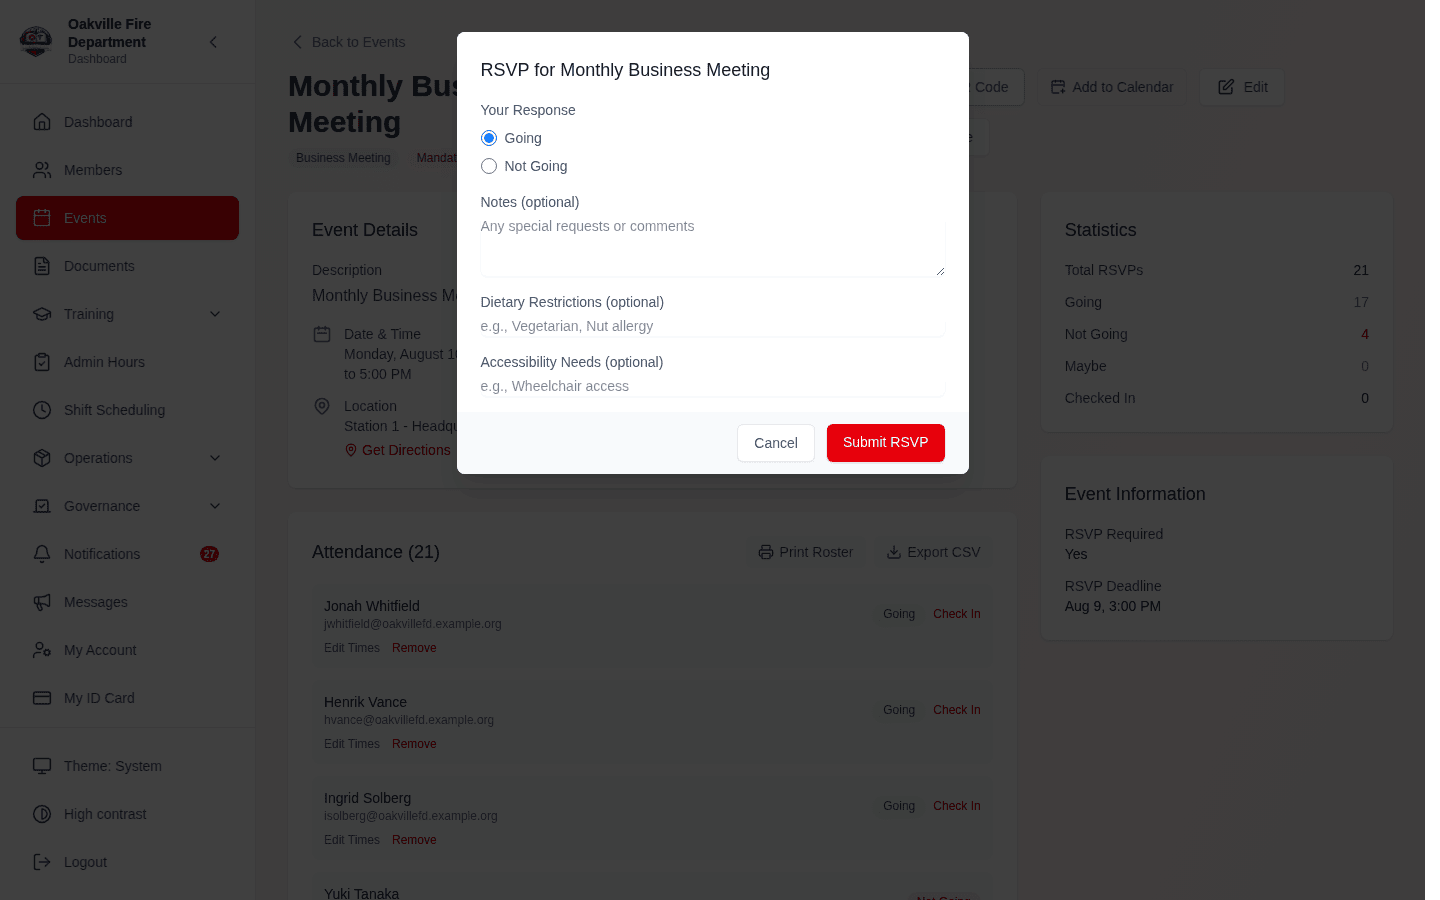
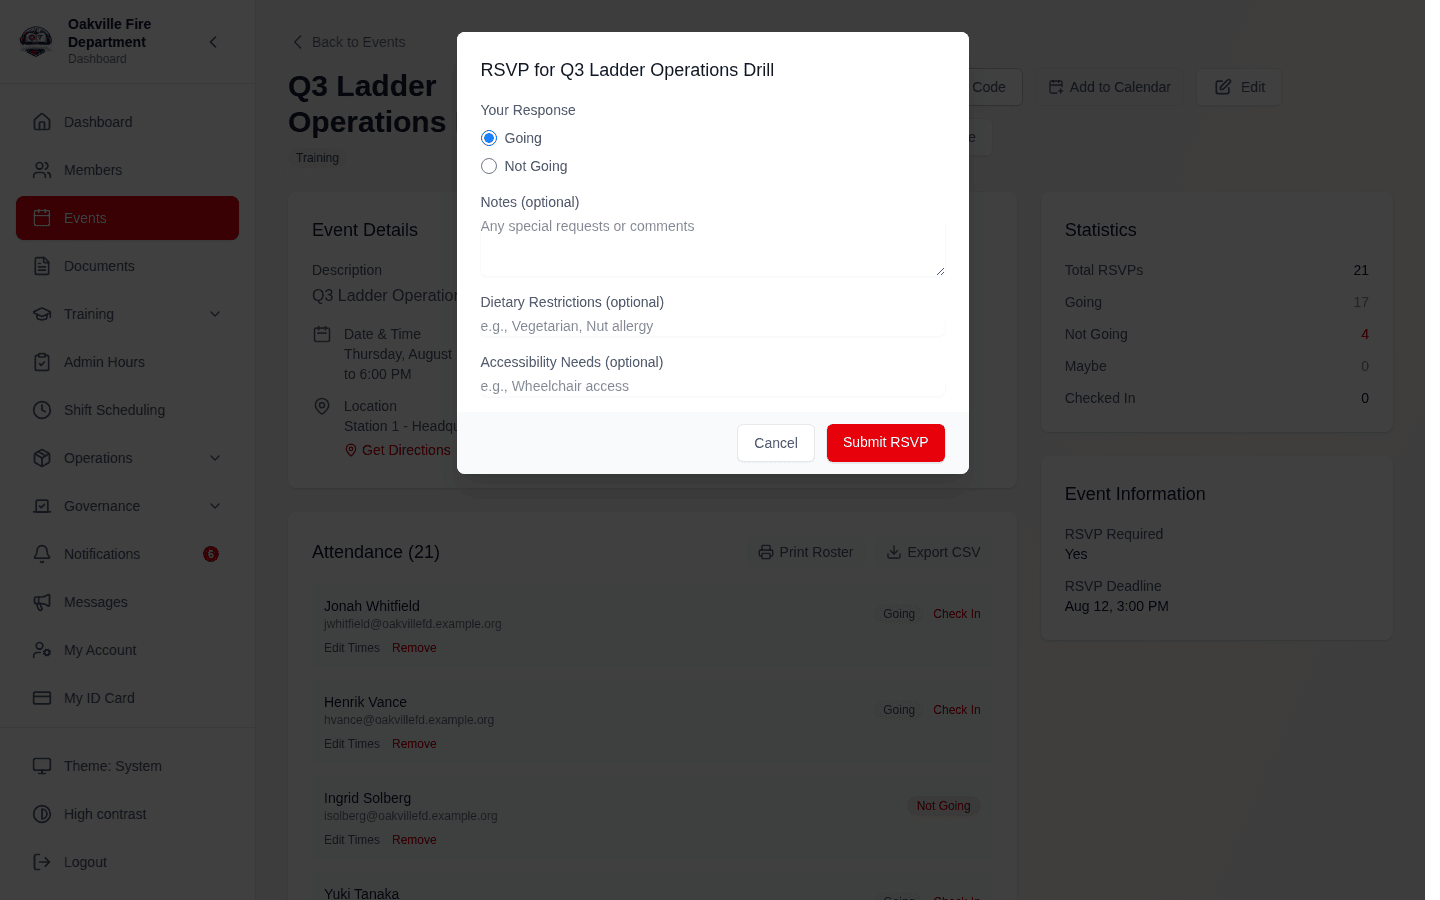
Fill the department's offices; fix the RSVP shot's event picker
The RSVP modal shot had been failing since the demo data moved on. It picked
the first *upcoming* event, but the RSVP button also needs a deadline still
in the future, and the seeder sets that a day before the event — so the
nearest upcoming event has usually closed. A new isRsvpOpen predicate
requires requires_rsvp, not cancelled, and a start at least two days out,
which clears the seeder's one-day lead. The list response carries
requires_rsvp but not rsvp_deadline, hence inferring the window from the
start rather than reading it.

The Officers tab was a column of "Vacant / No holder" rows, so email
templates had no officeholder to sign as. Nine offices are now filled, one
of them (Training Officer) with a signature-title override so the tab shows
both kinds of entry, and two left vacant so both states are visible.

Also fills the template sidebar search and the email platform configuration,
and notes that the Send Test Email button the guide places on that page is
not there — the test send lives in the template editor.

213 of 480 placeholders filled, 267 remaining.

diff --git a/scripts/screenshots/seed_demo_data.py b/scripts/screenshots/seed_demo_data.py
@@ -2252,6 +2252,45 @@ class Seeder:
 
     # -- department messages -----------------------------------------
 
+    def seed_officers(self, members: list[dict]) -> None:
+        """Fill the department's offices.
+
+        Email templates sign messages with the officeholder's name, and the
+        Officers tab is otherwise a column of "Vacant / No holder" rows with
+        nothing to picture. One office is given an override so the tab shows
+        both kinds of entry — a linked member, and a linked member whose
+        signature title differs from the default.
+        """
+        by_username = {m.get("username"): m for m in members}
+        assignments = [
+            ("chief", "chief", None),
+            ("deputy_chief", "mbell", None),
+            ("assistant_chief", "praman", None),
+            ("safety_officer", "hvance", None),
+            # Linked member, department-specific signature title.
+            ("training_officer", "okittredge", "Training & Safety Officer"),
+            ("president", "smarchetti", None),
+            ("secretary", "aosei", None),
+            ("treasurer", "tlindqvist", None),
+            ("quartermaster", "whalloway", None),
+        ]
+        directory = items(self.api.get("/officers"), "offices")
+        filled = {
+            o.get("office_key") for o in directory if pick(o, "user_id", "userId")
+        }
+        known = {o.get("office_key") for o in directory}
+        for office_key, username, title in assignments:
+            if office_key in filled or office_key not in known:
+                continue
+            member = by_username.get(username)
+            user_id = pick(member, "id") if member else None
+            if not user_id:
+                continue
+            payload: dict[str, Any] = {"user_id": user_id}
+            if title:
+                payload["title"] = title
+            self.api.call("PUT", f"/officers/{office_key}", payload)
+
     def seed_messages(self, base_url: str, members: list[dict]) -> list[dict]:
         """Post department announcements and have some members acknowledge.
 
@@ -4487,6 +4526,7 @@ class Seeder:
         self.step("event check-ins", lambda: self.seed_event_check_ins(events, members))
         self.step("documents", self.seed_documents)
         self.step("notification rules", self.seed_notification_rules)
+        self.step("officers", lambda: self.seed_officers(members))
         self.step("messages", lambda: self.seed_messages(self.base_url, members))
         forms = self.step("forms", self.seed_forms) or []
         self.step(

diff --git a/docs/training/08-admin-reports.md b/docs/training/08-admin-reports.md
@@ -1333,7 +1333,7 @@ You can now send a test email to verify your template changes before they go liv
 
 The template list now includes a **search field** that filters templates as you type. Search matches against template name and template type, making it faster to find specific templates in departments with many customized templates.
 
-> **[SCREENSHOT NEEDED]:** _Screenshot of the template list sidebar showing the search field with "welcome" typed, and the filtered list showing only templates whose names contain "welcome" (e.g., "Welcome New Member", "Welcome Back")._
+![Email template sidebar filtered to templates matching welcome](./images/08-36-template-search.png)
 
 ### Standardized Email Footers
 
@@ -1434,7 +1434,7 @@ The resolved values refresh when an office is edited, when the **Officers** tab
 is loaded, and **nightly** — that last one is what catches a change made to the
 _member_ behind an office rather than to the assignment itself.
 
-> **[SCREENSHOT NEEDED]:** _Screenshot of the Officers tab showing the office list with holders, a "Linked member" column, an override indicator on one row, and the variables each office exposes._
+![Officers tab listing each office and the member holding it](./images/08-37-email-officers.png)
 
 See [DEPARTMENT_OFFICERS.md](../DEPARTMENT_OFFICERS.md) for the full variable
 catalogue and the API.
@@ -1476,7 +1476,9 @@ The Logbook now supports **Cloudflare Email Routing** as an email delivery platf
 | Email disabled in settings           | `send_batch` returns immediately without attempting delivery  |
 | Cloudflare API timeout               | Retried; failure logged to message history with error details |
 
-> **[SCREENSHOT NEEDED]:** _Screenshot of the Email Configuration page showing the Cloudflare platform selected, with Account ID and API Token fields, and a "Send Test Email" button._
+![Email configuration with the sending platform and credentials](./images/08-38-email-configuration.png)
+
+The credential fields are per-platform: pick **Cloudflare** and the Account ID and API Token appear beneath the sender fields. There is no **Send Test Email** button on this page — the closest thing is the test send in the email template editor, which uses whatever platform is configured here.
 
 ---
 

diff --git a/docs/training/SCREENSHOT_STATUS.md b/docs/training/SCREENSHOT_STATUS.md
@@ -4,7 +4,7 @@ Which training-guide screenshot placeholders have been captured. Generated
 by `scripts/screenshots/status_report.py`; see that directory's README for
 how to capture more.
 
-**210 of 480 placeholders filled** (270 remaining).
+**213 of 480 placeholders filled** (267 remaining).
 
 | Guide | Captured | Remaining |
 |-------|---------:|----------:|
@@ -16,7 +16,7 @@ how to capture more.
 | [05-inventory.md](./05-inventory.md) | 25 | 28 |
 | [06-apparatus-facilities.md](./06-apparatus-facilities.md) | 13 | 7 |
 | [07-documents-forms.md](./07-documents-forms.md) | 13 | 0 |
-| [08-admin-reports.md](./08-admin-reports.md) | 14 | 28 |
+| [08-admin-reports.md](./08-admin-reports.md) | 17 | 25 |
 | [09-skills-testing.md](./09-skills-testing.md) | 7 | 14 |
 | [10-mobile-pwa.md](./10-mobile-pwa.md) | 3 | 13 |
 | [11-finance.md](./11-finance.md) | 11 | 6 |
@@ -27,5 +27,5 @@ how to capture more.
 | [16-integrations.md](./16-integrations.md) | 4 | 8 |
 | [17-privacy-data-rights.md](./17-privacy-data-rights.md) | 2 | 0 |
 | [18-storefront.md](./18-storefront.md) | 4 | 1 |
-| **Total** | **210** | **270** |
+| **Total** | **213** | **267** |
 
